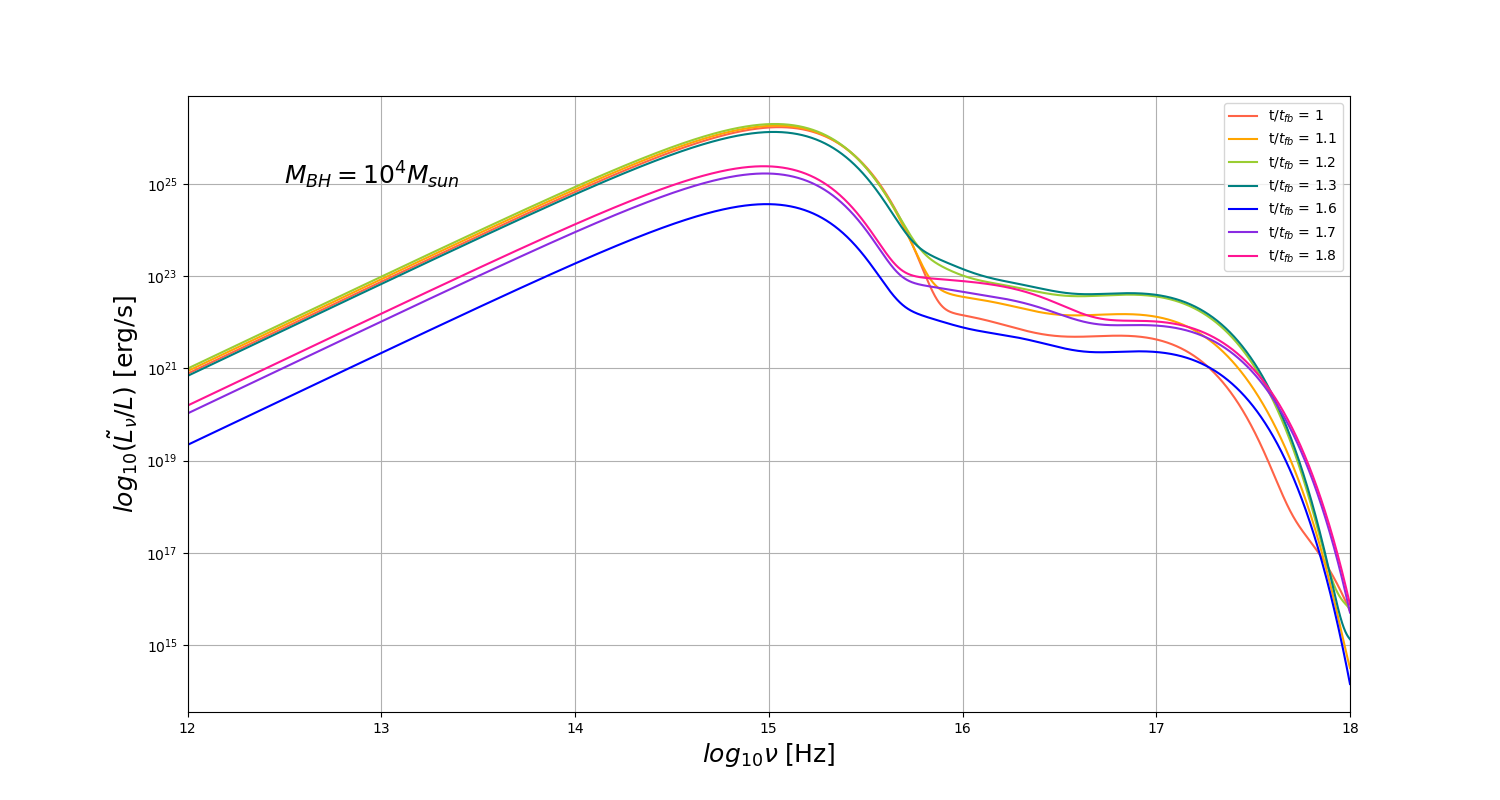
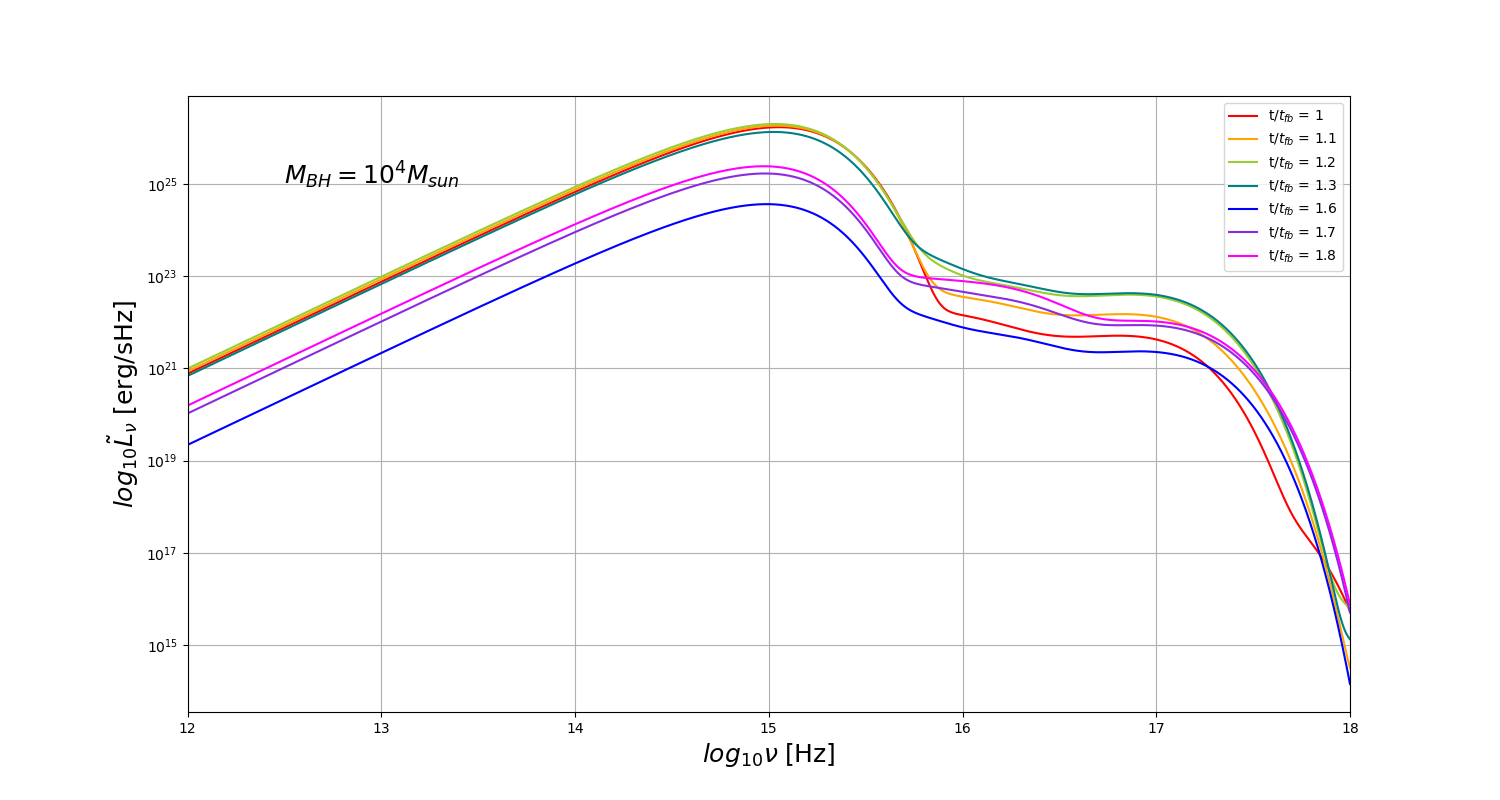
again plot

diff --git a/L_tilde_TOTplot.py b/L_tilde_TOTplot.py
@@ -12,7 +12,7 @@ def select_days(m):
         days = [1, 1.1, 1.2, 1.3, 1.57, 1.7, 1.83] #t/t_fb
     return days
 
-def final_plot(m, pl, telescope = False, check = False):
+def final_plot(m, pl, xaxis_T = False, telescope = False, check = False):
     if pl == 'bolometric':
         days = select_days(m)
         bolom = bolom = np.loadtxt('L_m'+ str(m) + '.txt')
@@ -33,6 +33,15 @@ def final_plot(m, pl, telescope = False, check = False):
         L_tilde_n = np.loadtxt('L_tilde_n_m'+ str(m) + '.txt')
         x_array = L_tilde_n[0]
 
+        if xaxis_T == True:
+            # from Wien law: n_peak = 5.879e10 Hz/K * T where n = 10^x
+            x_array = 10**x_array / (5.879e10)
+            plt.xlabel('$log_{10}T [K]$', fontsize = 18)
+            plt.loglog()
+        else: 
+            plt.xlabel(r'$log_{10}\nu$ [Hz]', fontsize = 18)
+            plt.yscale('log')
+        
         if m == 6:
             L_tilde_n844 = L_tilde_n[1]
             L_tilde_n881 = L_tilde_n[2]
@@ -53,6 +62,7 @@ def final_plot(m, pl, telescope = False, check = False):
             L_tilde_n308 = L_tilde_n[6]
             L_tilde_n322 = L_tilde_n[7]
 
+
             plt.plot(x_array, L_tilde_n233, c = 'r', label = 't/$t_{fb}$ = 1')
             plt.plot(x_array, L_tilde_n243, c = 'orange', label = 't/$t_{fb}$ = 1.1')
             plt.plot(x_array, L_tilde_n254, c = 'yellowgreen', label = 't/$t_{fb}$ = 1.2')
@@ -61,7 +71,7 @@ def final_plot(m, pl, telescope = False, check = False):
             plt.plot(x_array, L_tilde_n308, c = 'blueviolet', label = 't/$t_{fb}$ = 1.7')
             plt.plot(x_array, L_tilde_n322, c = 'magenta', label = 't/$t_{fb}$ = 1.8')
             plt.text(12.5, 1e25, '$M_{BH}=10^4M_{sun}$', fontsize = 18)
-            plt.xlim(12,18)
+            # plt.xlim(12,18)
 
             if check:
                 start = 6500
@@ -83,10 +93,7 @@ def final_plot(m, pl, telescope = False, check = False):
                 print('233: ', tot33)
                 print('263: ', tot263)
 
-        plt.xlabel(r'$log_{10}\nu$ [Hz]', fontsize = 18)
-        plt.yscale('log')
-        plt.ylabel(r'$log_{10}\tilde{L}_\nu$ [erg/s]', fontsize = 18)
-        plt.ylabel(r'$log_{10}(\tilde{L}_\nu/L)$ [erg/s]', fontsize = 18)
+        plt.ylabel(r'$log_{10}\tilde{L}_\nu$ [erg/sHz]', fontsize = 18)
         plt.grid()
 
         if telescope == False:
@@ -127,10 +134,10 @@ def final_plot(m, pl, telescope = False, check = False):
             plt.savefig('telescope_spectra_m' + str(m) + '.png' )
 
 # MAIN
-m = 4
+m = 6
 
+# plt.figure(figsize=(15,8))
+# plotbolo = final_plot(m,'bolometric')
 plt.figure(figsize=(15,8))
-plotbolo = final_plot(m,'bolometric')
-plt.figure(figsize=(15,8))
-plotspectra = final_plot(m,'spectra')
+plotspectra = final_plot(m,'spectra', True)
 plt.show()
